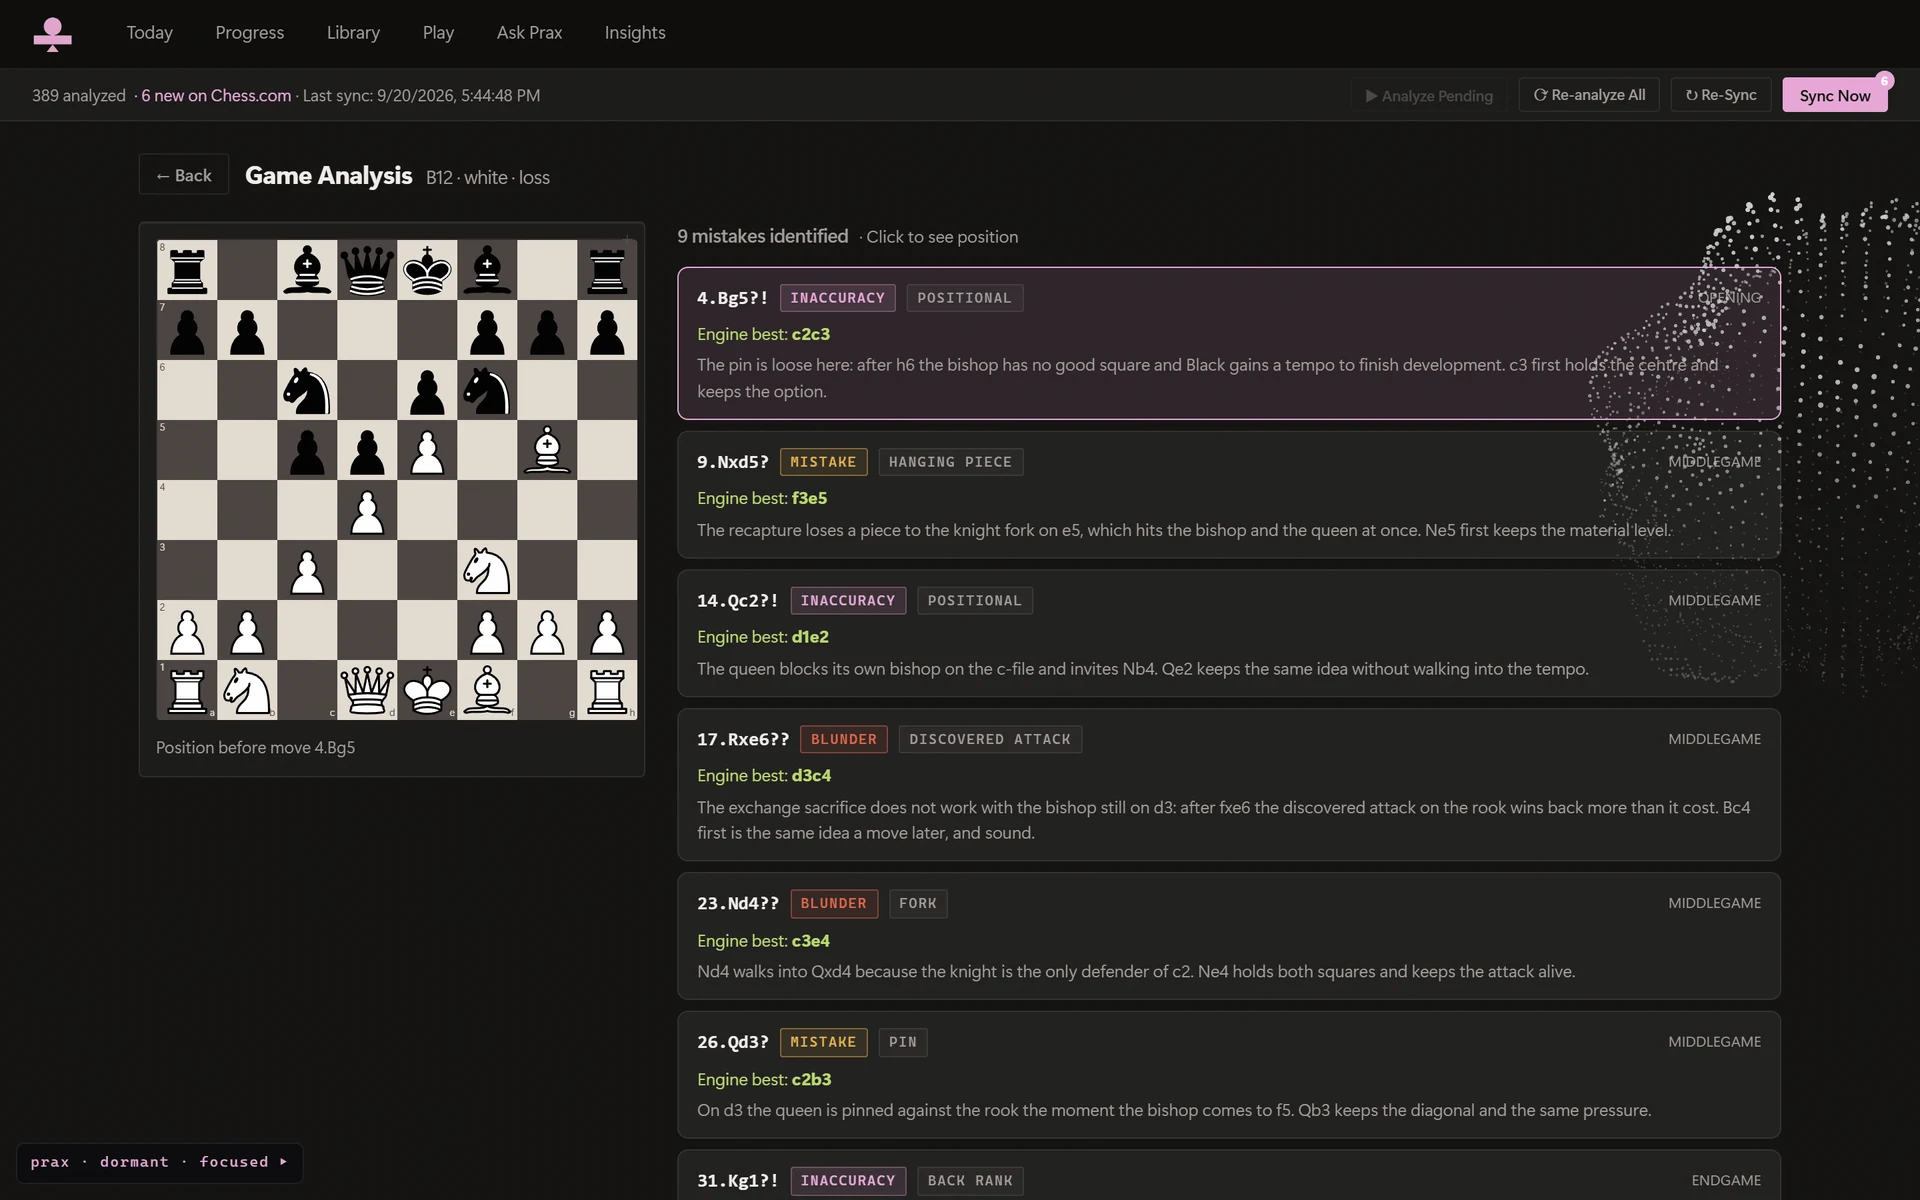
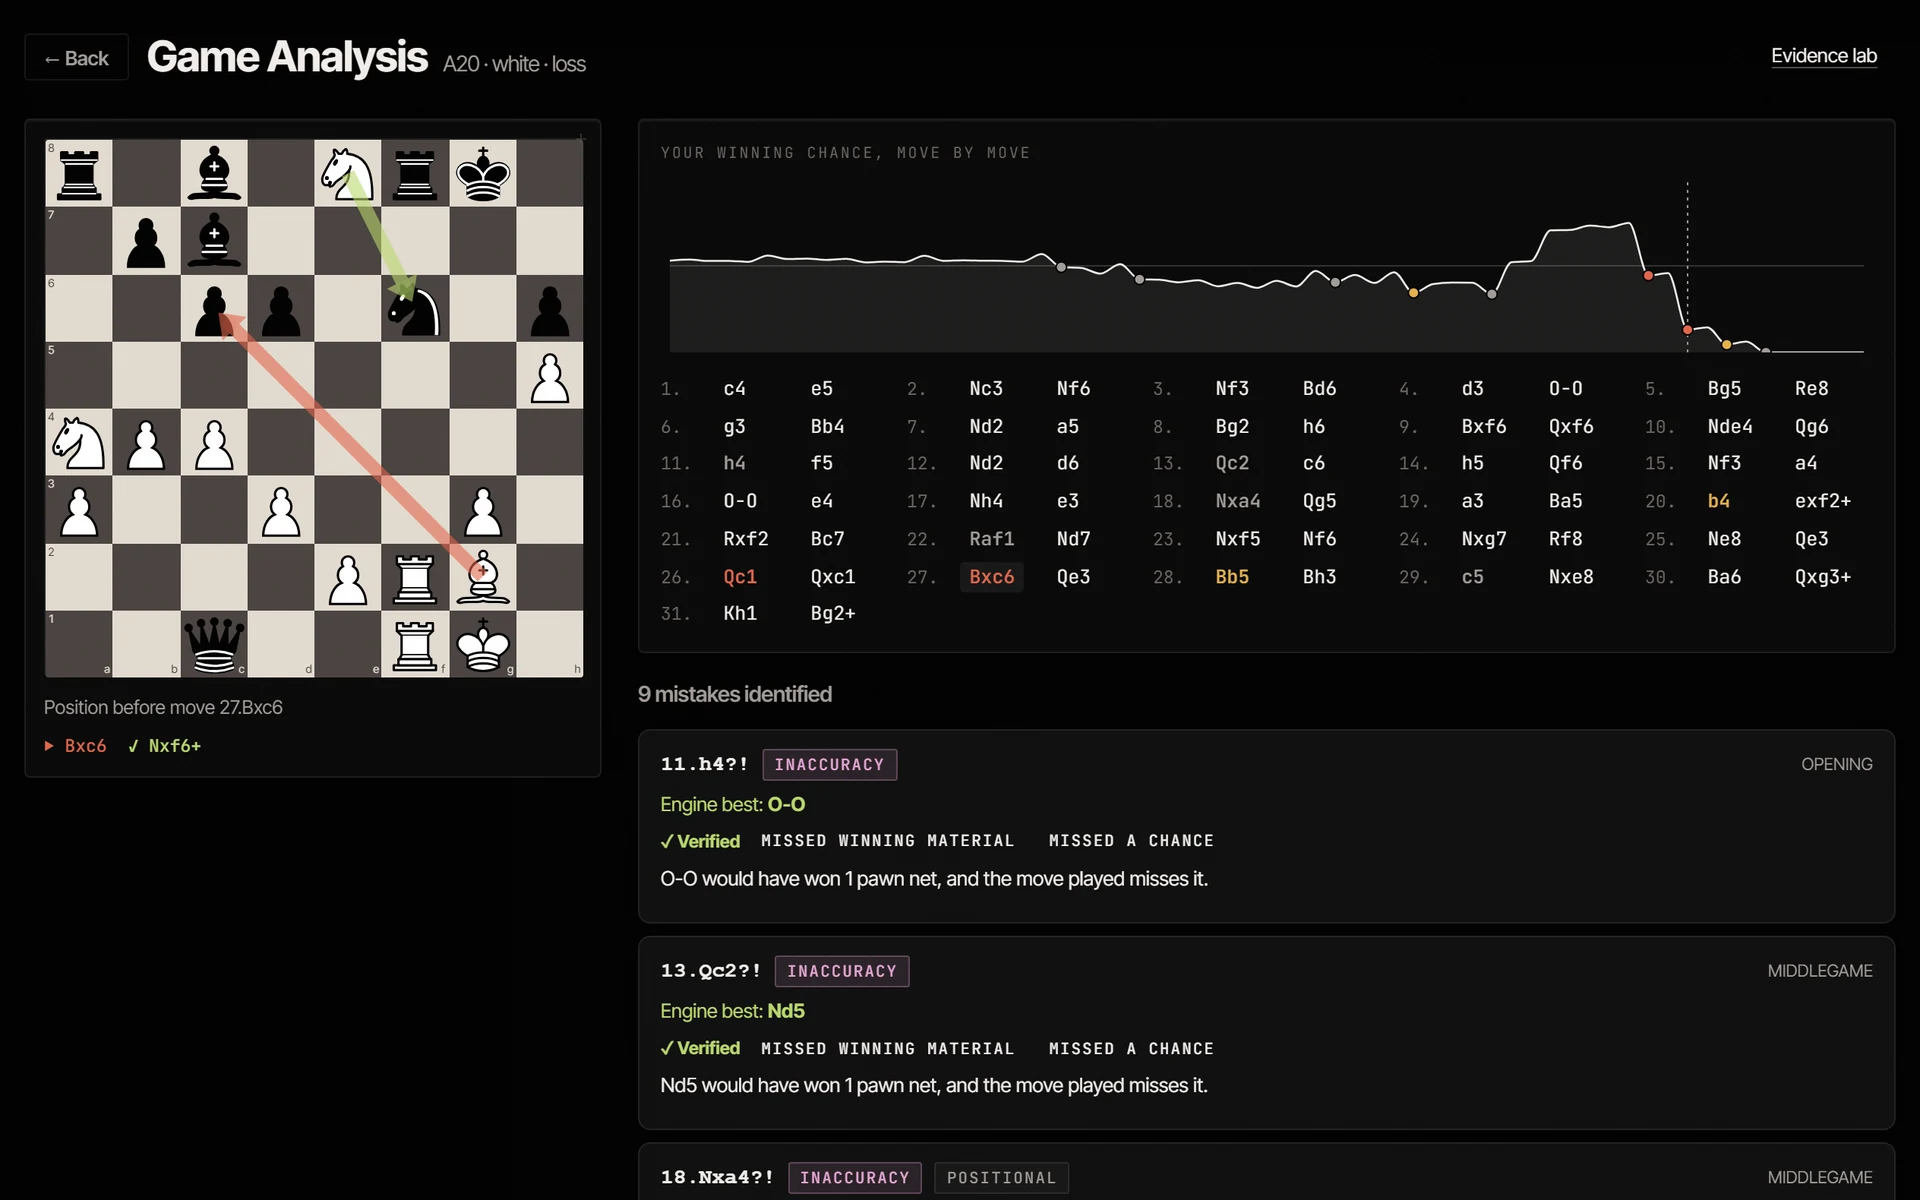
New app screenshots on demo data, framed for each slot
Captured from the current app (centred nav, Today rail, eval graph, Insights takeaway, Ask Prax answer) on made-up data, each cropped to its slot's shape. Adds patterns-tall.webp for the 3:4 'Your weakness' frame. README updated with where the data comes from and how to re-capture.

diff --git a/index.html b/index.html
@@ -615,7 +615,7 @@
 
               <div class="prac__cell">
                 <div class="prac__step prac__step--2 at rc" style="--s0:.18;--inv:7;--r0:.36;--rinv:8">
-                  <figure class="shot shot--tall" data-shot="patterns"
+                  <figure class="shot shot--tall" data-shot="patterns-tall" data-focus="50% 28%"
                           data-alt="The Praxis Pattern Report, shown with demo data: recurring weaknesses and the mistakes behind them."></figure>
                 </div>
                 <p class="prac__word pink at" style="--s0:.22;--inv:7;right:34%;top:20%">Your weakness</p>

diff --git a/assets/app/README.md b/assets/app/README.md
@@ -1,7 +1,7 @@
 # Application captures
 
-Screenshots of the real Praxis Chess frontend, taken by `tools/capture.js`
-driving a real Chrome at 1440×900 at 2×.
+Screenshots of the real Praxis Chess frontend (v1.4.0 and the polish work after
+it: the centred nav, Today's rail, the eval graph), taken at 1440×900 at 2×.
 
 ## What is real in these, and what is not
 
@@ -9,86 +9,73 @@ driving a real Chrome at 1440×900 at 2×.
 through its own components, its own CSS, its own chart and board code. Nothing
 is drawn, retouched, composited, or mocked up in a design tool.
 
-**Not real:** the game library behind it. These are captured against
-`tools/fixture-api.js`, a stand-in backend serving a demo player's data.
+**Not real:** the data behind it. Nobody's real games appear on the site.
 
-### Why it is not the real library
-
-The first set was taken against the real backend, and most of it came out full
-of zeros. Not because anything was broken — because that account has a rich
-game library and an untouched drill deck:
-
-| screen | what it actually showed |
-|---|---|
-| Today | `0` due, `0` learning, `0` review, `0` new |
-| Progress | `0` total cards, `0%` recall, an empty chart |
-| Insights | `0%` blunders in time trouble, `0/174` under 30s |
-| Play & Improve | ten practice games, all losses, all the same date |
-
-Those screens were telling the truth about features that account had not used
-yet. A marketing page cannot argue for a feature with a screenshot of it
-sitting unused, so the captures are taken against a populated demo library
-instead.
+- Seven screens run on the application's own end-to-end test data
+  (`frontend/e2e/fixtures` and its `ApiMock`): a made-up player with 101 games.
+  A few screens get a fuller made-up library than the tests need (a 60-game
+  accuracy trend, every hour and day, three weeks of reviews, an answered
+  question), so no chart is shown nearly empty.
+- The Game Analysis shot uses a game from the app's **sample library**:
+  Stockfish playing a made-up player (`sample_sam`) at club strength, analysed
+  by the real pipeline. Its moves, curve, mistakes and diagnoses are the
+  engine's; the player is invented.
 
 **This is a real trade and it is worth stating plainly:** the numbers on the
 website's screenshots are a demo player's, not a real one's. The product shown
-performing is real; the performance shown is illustrative. If you would rather
-the site carry only your own data, run the real stack and re-capture — the
-tooling is identical, see below.
+performing is real; the performance shown is illustrative.
 
 ## What is here
 
 | file | screen | what is on it |
 |---|---|---|
-| `report.webp` | Game analysis | Nine mistakes with severity, motif, engine best move and a written explanation each, with the board showing the selected position. The most important capture on the site. |
-| `patterns.webp` | Pattern Report | 389 games, 1,247 mistakes, three ranked weaknesses, mistakes by move range and phase, eight tactical motifs ranked. |
-| `insights.webp` | Insights | Winning-position conversion, blunders in time trouble, average move time, a 60-game accuracy trend with a 10-game rolling average. |
-| `today.webp` | Today | The day's focus with its evidence rows expanded, the deck counters, and the weekly streak. |
-| `progress.webp` | Progress | Deck health, 7-day recall, the review-volume chart, phase recall, and the daily history table. |
-| `play.webp` | Play & Improve | The opponent profile with its rationale, and the practice game log. |
-| `drill.webp` | Drills | A drill position from a flagged mistake. |
-| `ask.webp` | Ask Prax | A question answered with findings, prose, five evidence rows and a lookup count. |
+| `report.webp` | Game analysis | A loss with nine flagged moves: the board on the costliest one with the played and better moves drawn, the winning-chance curve, the move list, and the verified diagnosis of each mistake. The most important capture on the site. |
+| `patterns.webp` | Pattern Report, 3:1 | The costliest habit and the first weakness ranked by winning chances lost, with its positions and board. The band in "The difference". |
+| `patterns-tall.webp` | Pattern Report, 3:4 | The same report in a portrait window: the habit, both weaknesses with their boards, and where they happen. The "Your weakness" frame. |
+| `insights.webp` | Insights | The takeaway line, conversion, time trouble, move time and resilience, and a 60-game accuracy and Elo trend. |
+| `today.webp` | Today | The day's focus with its evidence open and one of the positions behind it, the deck counters, the week, and the rail (rating, last game, next session, top habit). |
+| `progress.webp` | Progress | The deck, 7-day recall over three weeks of reviews, phase recall and the practice history. |
+| `play.webp` | Play & Improve | The next game (opening, colour, strength and why), practice so far, and the patterns found in it. |
+| `drill.webp` | Drills | A position from the player's own mistake, in a training-plan session. |
+| `ask.webp` | Ask Prax | A question answered with findings, prose, five evidence rows and the lookups behind it. |
+
+## Framed for the slot
+
+Every slot crops with `object-fit: cover`, so a full 16:10 screen in a 3:1 band
+or a 3:4 frame lands on empty margin or slices through text. Each capture is
+therefore taken at its slot's own shape, around the part that matters: the
+band is the costliest habit and its first weakness, Today is its main column,
+the drill is its board and words, Ask Prax is the answer and its evidence,
+Play is a 1200×900 window, and the tall frame is a portrait window. On the
+desktop layout the slot shows the whole capture; `data-focus` only matters
+where a breakpoint changes a slot's shape.
 
 ## Re-capturing
 
-Something has to answer on `:8086`. Either works, and `capture.js` does not
-know the difference.
-
-**Against the demo library** (what the site currently ships):
+The captures are taken by a spec in the application, off in every normal test
+run. It needs nothing running: the app's test setup starts its own dev server
+and answers every API call itself, so the real backend can stay on `:8086`.
 
 ```bash
-node tools/fixture-api.js
+cd "D:/Tanm/Projects/Praxis-Chess/frontend" && SITE_SHOTS=1 SHOTS_OUT="D:/Tanm/Projects/Personal-Websites/Praxis Chess Website/assets/app" npx playwright test e2e/site --project=chromium
 ```
 
 ```bash
-cd "D:/Tanm/Projects/Praxis-Chess/frontend" && npm run dev
+python tools/towebp.py
 ```
 
-```bash
-node tools/capture.js
-```
+`e2e/site/site-shots.spec.ts` does the clicking a visitor would do before each
+screen is worth photographing: it opens the evidence on Today and asks Ask
+Prax a real question; Game Analysis opens on its costliest mistake by itself.
 
-**Against your own games:** start the real stack instead — Postgres in Docker,
-the backend from IntelliJ on JDK 26, Ollama on `:11434` if you want Ask Prax to
-answer — then run `npm run dev` and `node tools/capture.js` exactly as above.
-Point it at a game worth showing:
-
-```bash
-GAME_ID=<uuid> node tools/capture.js
-```
-
-`curl -s localhost:8086/api/games` lists them with `mistake_count` and
-`accuracy`. An easy win makes a dull screenshot.
-
-`capture.js` does the clicking a visitor would do before each screen is worth
-photographing: it opens the evidence panel on Today, selects a mistake so the
-board and its arrows draw, expands the daily history on Progress, and types a
-real question into Ask Prax. It then runs `tools/towebp.py`.
+`tools/capture.js` and `tools/fixture-api.js` took the previous set against a
+stand-in backend on `:8086`. They no longer match the application's API, and
+`:8086` is the real backend's port, so they are kept for reference only.
 
 ## Format
 
 WebP, quality 88, 1920 wide. PNG is the wrong container for a dark interface
-full of text: these eight were **13.1 MB as PNG and 0.8 MB as WebP**, with
+full of text: this set came to **8.7 MB as PNG and 0.7 MB as WebP**, with
 nothing visible lost at the size any slot renders. `tools/check.py` warns above
 300 KB a file.
 
